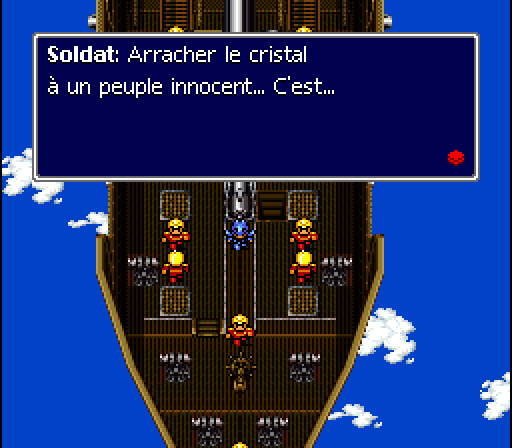
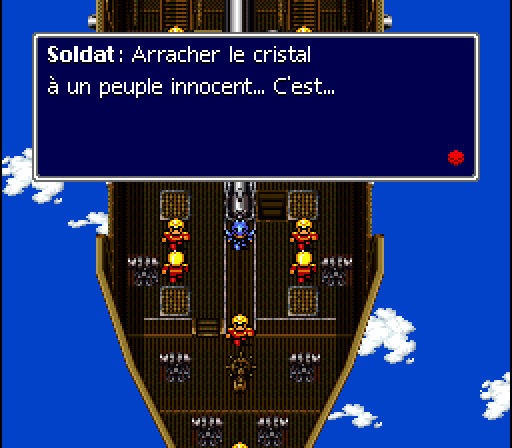
Set a 1px space before a French speaker's colon
The b0 tester asked for French spacing before the colon; a full space looked loose, so the 1px spacer (FD) sits there instead: "Soldat°:". A relayout strips it back first.

Changed region(s): [[0.2188, 0.0938, 0.625, 0.1562]]

diff --git a/tests/test_dialog_layout.py b/tests/test_dialog_layout.py
@@ -18,7 +18,7 @@ def windows(text: str) -> list[list[str]]:
 
 
 def test_a_speaker_is_set_in_bold_with_french_spacing(layout: DialogLayout) -> None:
-    assert layout.layout("Cecil: Comment!?[end]") == "[bold]Cecil[normal]: Comment !?[end]"
+    assert layout.layout("Cecil: Comment!?[end]") == "[bold]Cecil[normal]°: Comment !?[end]"
 
 
 def test_english_sets_no_space_before_marks() -> None:
@@ -27,24 +27,24 @@ def test_english_sets_no_space_before_marks() -> None:
 
 def test_a_speaker_change_turns_the_window(layout: DialogLayout) -> None:
     assert layout.layout("Soldat: Mais, Capitaine! Cecil: Écoutez![end]") == (
-        "[bold]Soldat[normal]: Mais, Capitaine ![new]\n[bold]Cecil[normal]: Écoutez ![end]"
+        "[bold]Soldat[normal]°: Mais, Capitaine ![new]\n[bold]Cecil[normal]°: Écoutez ![end]"
     )
 
 
 def test_narration_runs_on_into_a_speaker_on_a_new_line(layout: DialogLayout) -> None:
     out = layout.layout("La porte s'ouvre. Cecil: Allons-y![end]")
-    assert out == "La porte s'ouvre.\n[bold]Cecil[normal]: Allons-y ![end]"
+    assert out == "La porte s'ouvre.\n[bold]Cecil[normal]°: Allons-y ![end]"
 
 
 def test_sentences_share_a_line_while_they_fit(layout: DialogLayout) -> None:
     assert layout.layout("Beigan: Ah! Vous avez le Cristal![end]") == (
-        "[bold]Beigan[normal]: Ah ! Vous avez le Cristal ![end]"
+        "[bold]Beigan[normal]°: Ah ! Vous avez le Cristal ![end]"
     )
 
 
 def test_a_quote_answering_a_speaker_gets_its_own_window(layout: DialogLayout) -> None:
     out = layout.layout("Cecil: Qui est là? «Je suis votre guide pour l'enfer...»[end]")
-    assert out == "[bold]Cecil[normal]: Qui est là ?[new]\n« Je suis votre guide pour l'enfer... »[end]"
+    assert out == "[bold]Cecil[normal]°: Qui est là ?[new]\n« Je suis votre guide pour l'enfer... »[end]"
 
 
 def test_a_long_quote_turns_windows_between_its_sentences(layout: DialogLayout) -> None:
@@ -60,7 +60,7 @@ def test_a_balanced_sentence_keeps_its_lines_wide(layout: DialogLayout) -> None:
     """Balancing narrows a sentence just over a line no further than two thirds of the window: "Yang: Rydia a été /
     avalée par Léviathan.", not "Yang: Rydia a / été avalée par Léviathan."."""
     out = layout.layout("Yang: Rydia a été avalée par Léviathan.[end]")
-    assert windows(out)[0][0] == "[bold]Yang[normal]: Rydia a été"
+    assert windows(out)[0][0] == "[bold]Yang[normal]°: Rydia a été"
 
 
 def test_m_dot_stays_with_the_name_inside_a_line(layout: DialogLayout) -> None:
@@ -127,7 +127,7 @@ def test_an_announcement_gets_its_own_window(layout: DialogLayout) -> None:
     """A whole sentence in [force_bold] (a party join) is not the speaker's: it doesn't share their window."""
     out = layout.layout("Cecil: Merci... Rydia. [force_bold]L'invocatrice Rydia se joint à toi![force_normal][end]")
     assert out == (
-        "[bold]Cecil[normal]: Merci... Rydia.[new]\n[force_bold]L'invocatrice Rydia\nse joint à toi ![force_normal][end]"
+        "[bold]Cecil[normal]°: Merci... Rydia.[new]\n[force_bold]L'invocatrice Rydia\nse joint à toi ![force_normal][end]"
     )
 
 
@@ -156,7 +156,7 @@ def test_mt_stays_with_the_name() -> None:
 
 def test_an_unclosed_quote_stops_at_its_message(layout: DialogLayout) -> None:
     out = layout.layout("«Wahaha![end]Cecil: Halte![end]«Fin!»[end]")
-    assert out == "« Wahaha ![end]\n[bold]Cecil[normal]: Halte ![end]\n« Fin ! »[end]"
+    assert out == "« Wahaha ![end]\n[bold]Cecil[normal]°: Halte ![end]\n« Fin ! »[end]"
 
 
 def test_a_quoted_word_stays_in_its_sentence() -> None:
@@ -166,3 +166,8 @@ def test_a_quoted_word_stays_in_its_sentence() -> None:
 
 def test_a_titled_speaker_keeps_the_title() -> None:
     assert dialog_layout("en").layout("Dr. Lugeie: Grr...[end]") == "[bold]Dr. Lugeie[normal]: Grr...[end]"
+
+
+def test_a_french_speaker_takes_the_1px_spacer_before_the_colon_once(layout: DialogLayout) -> None:
+    laid = layout.layout("Cecil: Comment!?[end]")
+    assert (laid, layout.layout(laid)) == ("[bold]Cecil[normal]°: Comment !?[end]",) * 2

diff --git a/utils/dialog_layout.py b/utils/dialog_layout.py
@@ -3,7 +3,7 @@ ff4 dialog laid out at build time with katsuji: the language's typography, sente
 
 The XML keeps the translation as written; `layout` runs on each dialog pointer while the banks are encoded, so
 window breaks and line breaks are the build's, never hand-kept. Markup a previous layout added (`[new]`,
-`[bold]`/`[normal]` around speakers) is stripped first, so laying out twice changes nothing.
+`[bold]`/`[normal]` around speakers, the spacer before their colon) is stripped first, so laying out twice changes nothing.
 
 ff4's script rules: `Name:` opens a speaker, set in bold at the start of each of their windows; a speaker change
 starts a new window; quoted speech («» in French, '' in English) without a visible speaker gets windows of its own, and so does an announcement, a
@@ -19,7 +19,7 @@ packs sentences onto a line while they fit and splits a sentence wider than the 
 import re
 import sys
 from collections.abc import Sequence
-from dataclasses import dataclass
+from dataclasses import dataclass, replace
 from pathlib import Path
 
 from katsuji.layout import TextLayout
@@ -66,7 +66,9 @@ MARKUP = Markup(
 ABBREVIATIONS = {"fr": ("M.",), "en": ("Mr.", "Mrs.", "Dr.", "St.", "Mt.")}
 """Words ending in a period that never end a sentence: a title stays with the name ("M. Rosa"), and a line never
 ends on one."""
-TYPOGRAPHY = {"fr": FRENCH, "en": ENGLISH}
+SPEAKER_SPACE = "°"  # the 1px spacer (FD): "Soldat°:", a hint of the French space before the colon, not a 3px gap
+FRENCH_DIALOG = replace(FRENCH, speaker_space=SPEAKER_SPACE)
+TYPOGRAPHY = {"fr": FRENCH_DIALOG, "en": ENGLISH}
 
 
 @dataclass(frozen=True)
@@ -80,6 +82,7 @@ def clean(text: str) -> str:
     cleaned = text.replace(NEW_WINDOW, "\n")
     for tag in LAYOUT_MARKUP:
         cleaned = cleaned.replace(tag, "")
+    cleaned = cleaned.replace(SPEAKER_SPACE + ":", ":")
     return re.sub(r"(?<=\w-)\n(?=\w)", "", cleaned)  # a word a layout broke at its hyphen
 
 
@@ -208,7 +211,7 @@ def with_breaks(tokens: Sequence[Token]) -> list[Token]:
 class DialogLayout:
     """Lays one dialog pointer out into ff4 windows."""
 
-    def __init__(self, metrics: TextMetrics, typography: Typography = FRENCH,
+    def __init__(self, metrics: TextMetrics, typography: Typography = FRENCH_DIALOG,
                  abbreviations: tuple[str, ...] = ABBREVIATIONS["fr"], quoting: Quoting = QUOTING["fr"]) -> None:
         self.metrics = metrics
         self.quoting = quoting
